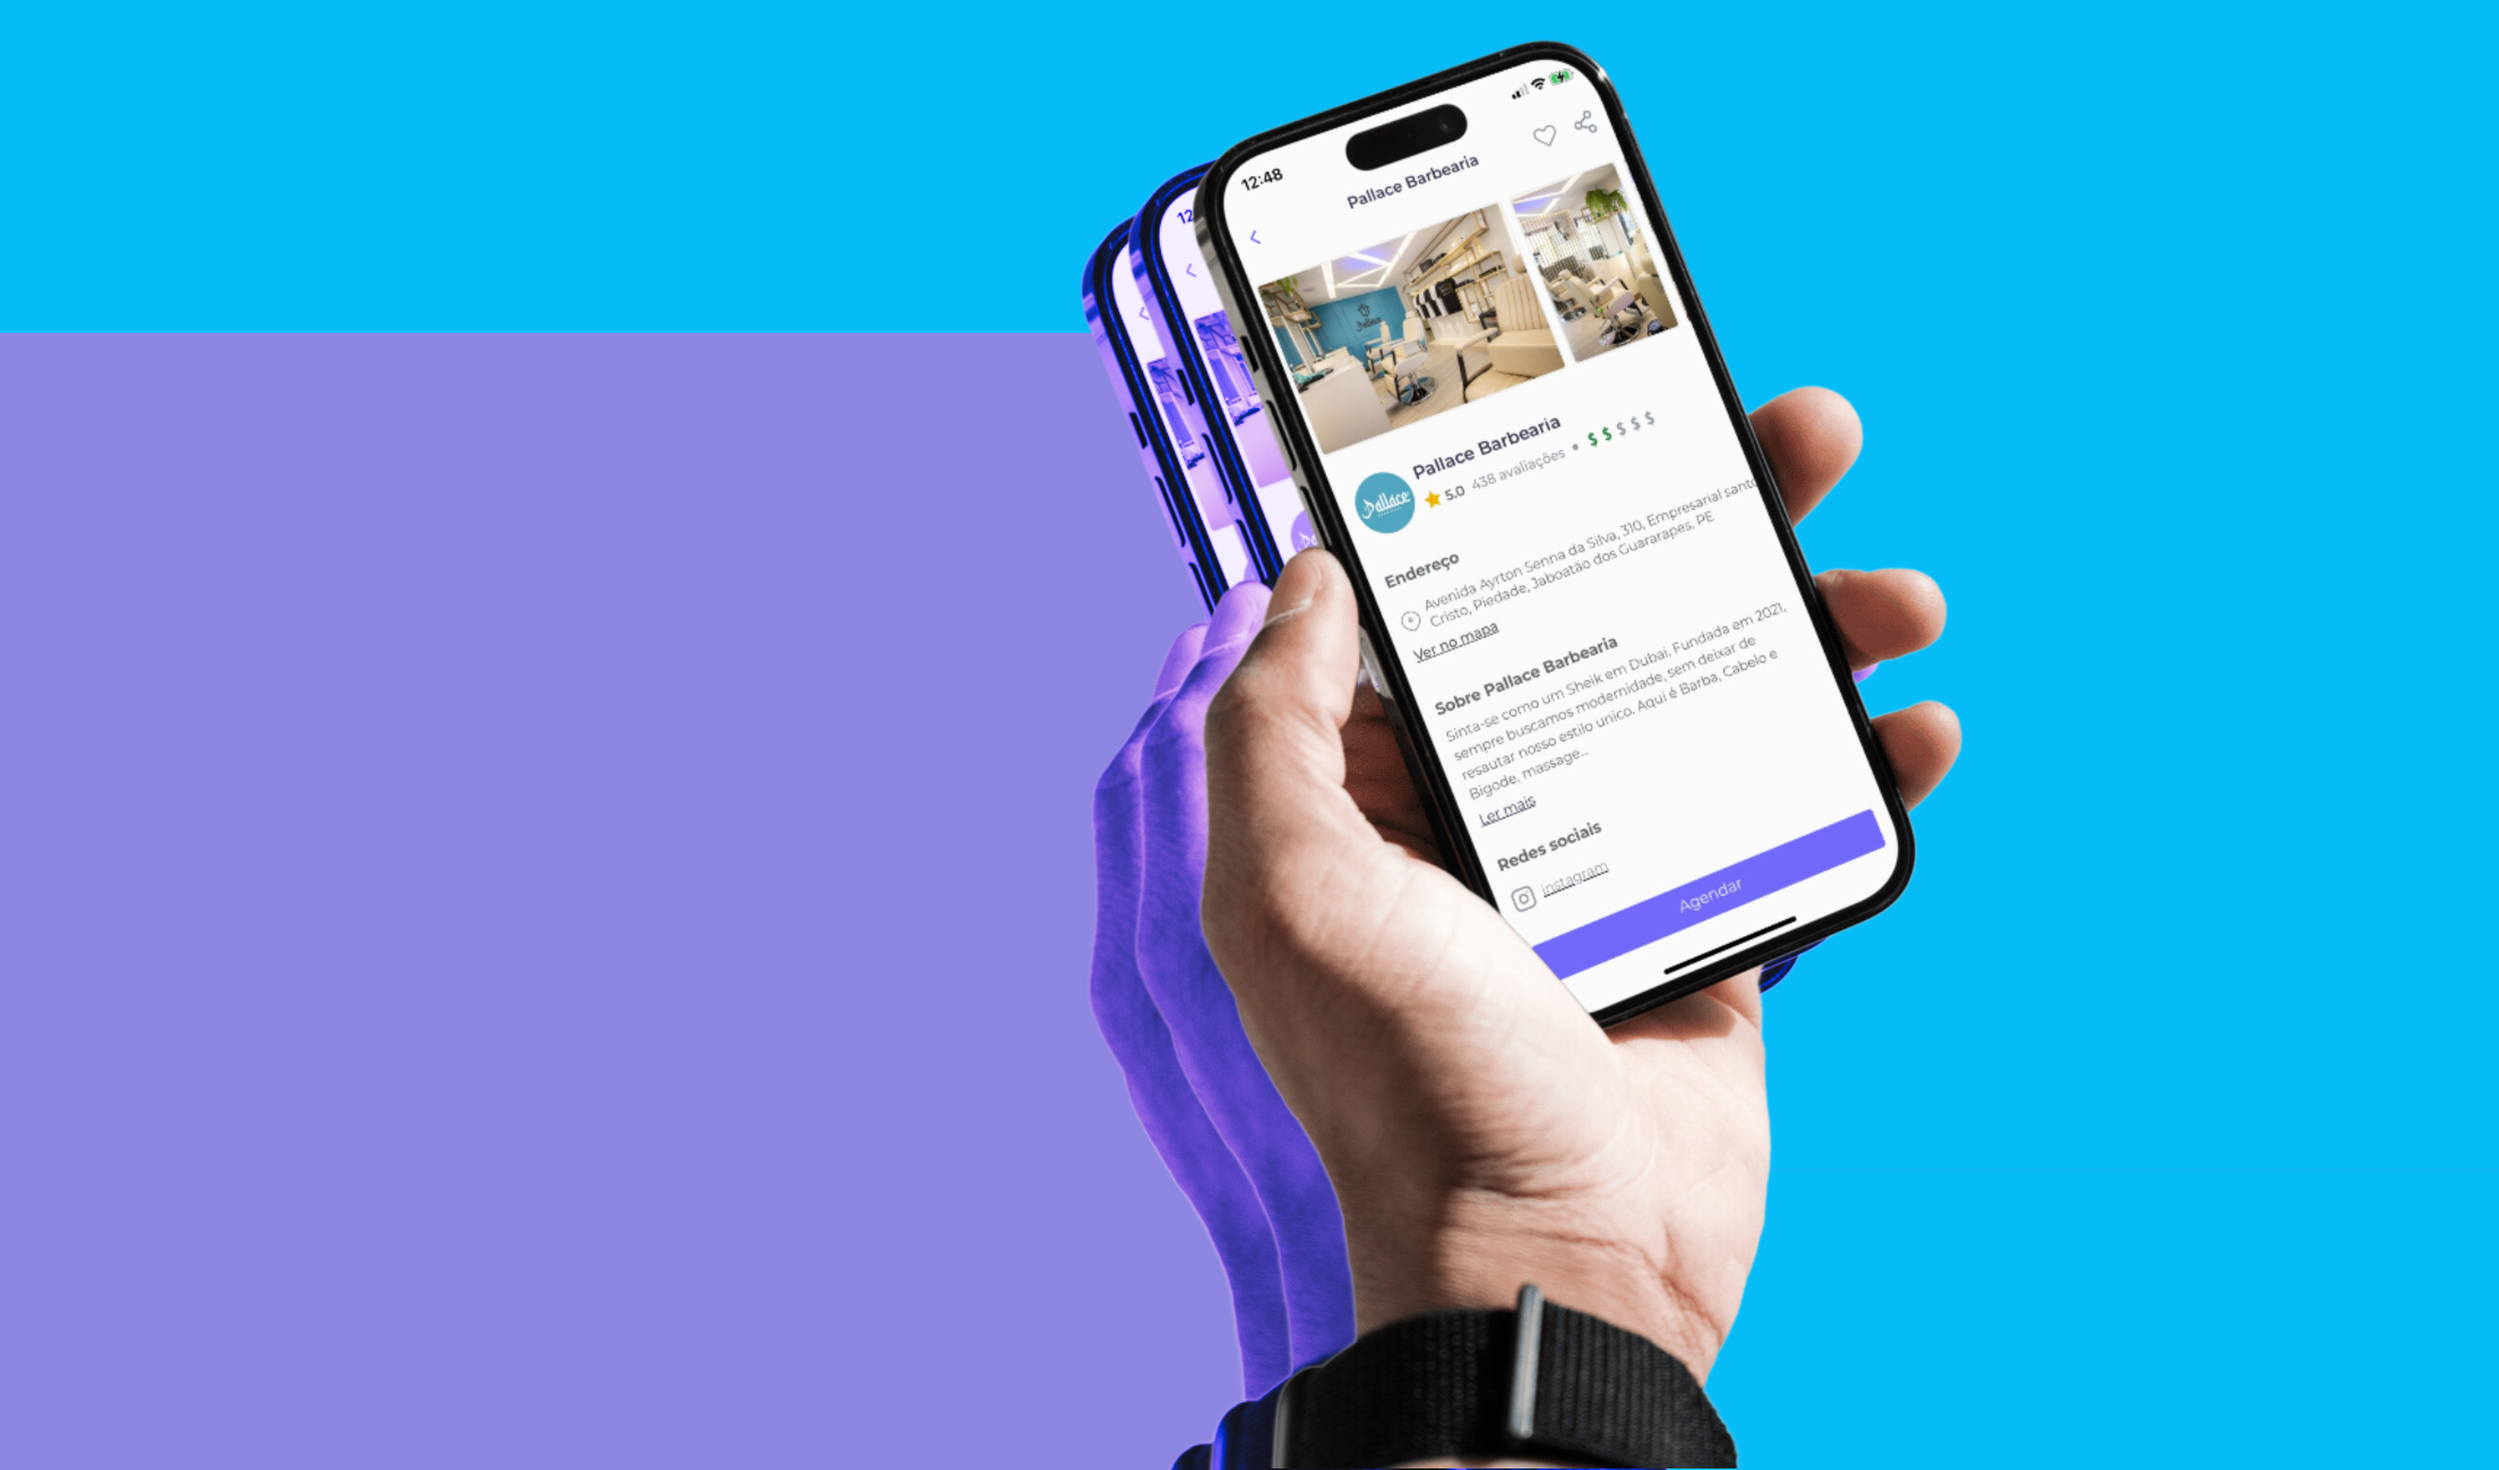
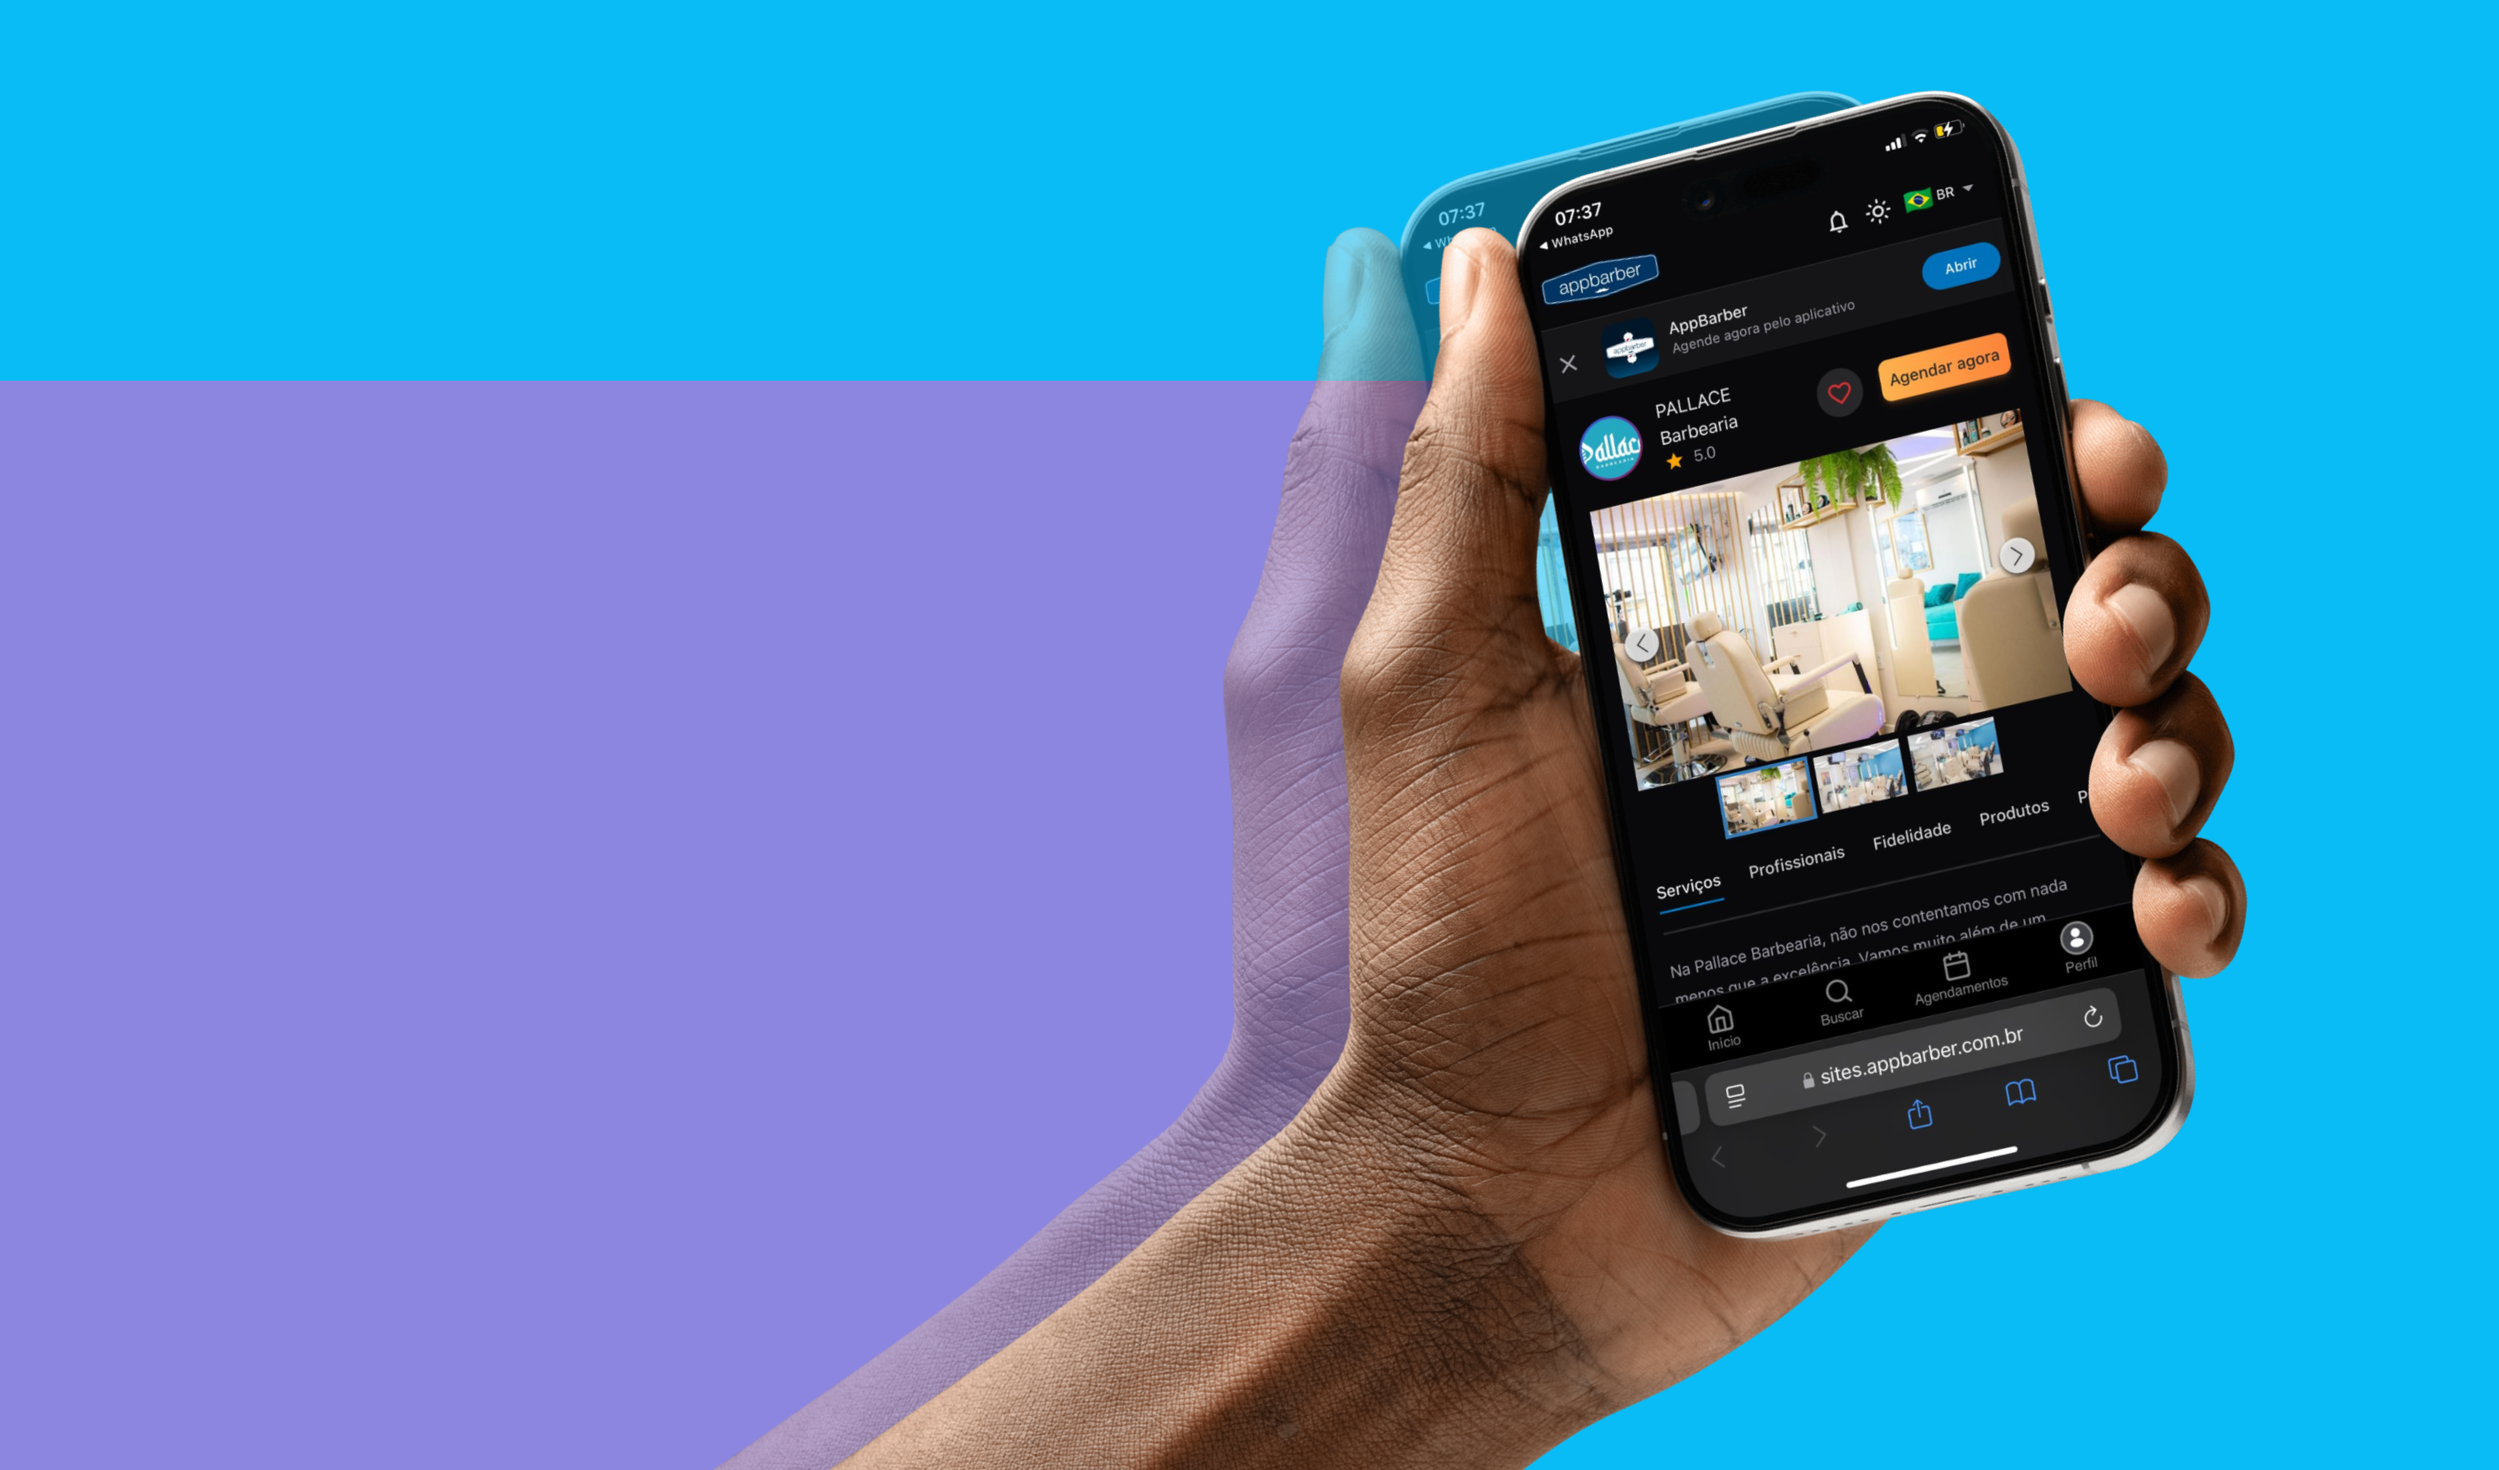
Te

diff --git a/index.html b/index.html
@@ -6,6 +6,7 @@
     <meta name="viewport" content="width=device-width, initial-scale=1.0" />
     <link rel="preconnect" href="https://fonts.googleapis.com" />
     <link rel="preconnect" href="https://fonts.gstatic.com" crossorigin />
+    <link rel="shortcut icon" href="./1111.png" type="image/x-icon">
 
     <link rel="preconnect" href="https://fonts.googleapis.com" />
     <link rel="preconnect" href="https://fonts.gstatic.com" crossorigin />
@@ -81,13 +82,9 @@
             força que sua imagem pode alcançar.
           </h1>
           <div class="wid40">
-            <a class="btnavec ani" href="https://avec.app/pallacebarbearia/">
+            <a class="btnavec ani" href="https://sites.appbarber.com.br/pallacebarbeari-2v7d">
               Agendar
-              <img
-                src="https://play-lh.googleusercontent.com/oTI07oTexm3zfloKX9Z9uHYVPt8zLJK9jExiw9WTnLedlDahCCgYrRepdqAnKsxSRxE"
-                class="imgAvec"
-                alt=""
-              />
+    
             </a>
             <p class="fontClick">Clica aqui</p>
           </div>
@@ -201,12 +198,12 @@
 
           <div class="apps">
             <a
-              href="https://apps.apple.com/br/app/avec-servi%C3%A7os-de-beleza/id1394288142?l=en-GB"
+              href="https://play.google.com/store/apps/details?id=br.com.starapp.appbarbercli"
               class="app ios"
               >IOS</a
             >
             <a
-              href="https://play.google.com/store/apps/details?id=com.avec&pli=1"
+              href="https://apps.apple.com/br/app/appbarber-cliente/id6450795073"
               class="app"
               >ANDROID</a
             >

diff --git a/services.html b/services.html
@@ -259,7 +259,7 @@
 
     <section class="agende">
       <h1 class="tituagen">Agende agora pelo App</h1>
-      <a href="https://avec.app/pallacebarbearia/" class="btnavec">Angedar</a>
+    <a href="https://avec.app/pallacebarbearia/" style="background-color: rgb(6, 188, 247);" class="btnavec">Angedar</a>
     </section>
 
     <footer class="footer">

diff --git a/style.css b/style.css
@@ -297,12 +297,13 @@ svg {
     cursor: pointer;
     z-index: 9999;
     position: relative;
-    background-color: #7269fa;
+    background-color: rgb(6, 188, 247);
     color: white;
+    font-weight: bold;
     text-decoration: none;
     position: relative;
     transition: 3s !important;
-
+    height: 50px;
 }
 
 .btnavec:hover {

diff --git a/services.css b/services.css
@@ -2114,7 +2114,7 @@ button {
 }
 
 .tituagen {
-    font-size: 26px;
+    font-size: 24px;
     color: white;
     width: 50%;
     margin-left: 5%;
